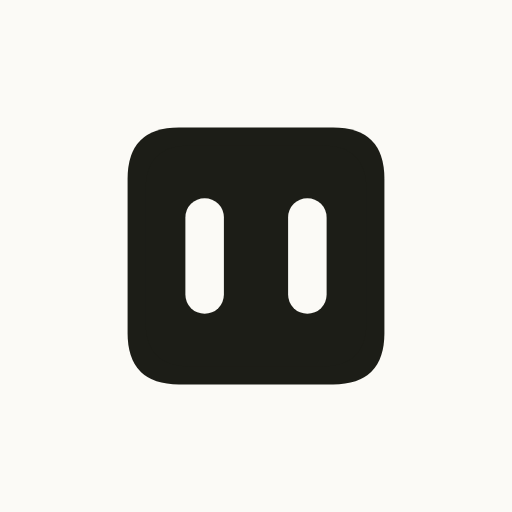
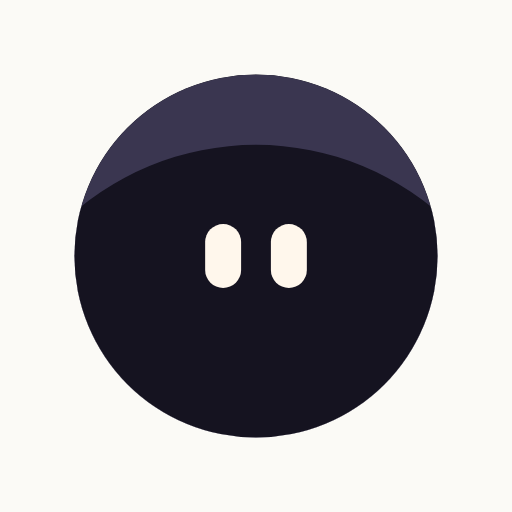
.407 the mark is the sphere from the reference, measured rather than eyeballed
Every number is sampled off the screenshot and then re-measured off my own render
with the same probe, so the two columns are comparable:

                        reference    mine
  eye width / diameter      0.099    0.098
  eye height / diameter     0.176    0.169
  gap / diameter            0.082    0.082
  body                    #151320  #151320
  crescent                #3a3650  #3a3650
  eyes                    #fff7ec  #fff7ec
  crescent disc            1.534R   1.511R
  crescent disc centre     0.922R   0.906R below

The crescent is not a gradient and not a tint: it is the sphere with a large dark
disc laid over its lower half, which leaves a lit arc whose inner edge sags in
the middle. Fitted by least squares over 43 points along that edge, worst
residual 0.016R — a pixel and a half on the 182px original. A first estimate off
three points gave 2.64R and 2.06R and was badly conditioned; those are not the
numbers. The 1.5% left between the two columns is the measurement's own bias,
not a mismatch — it is 0.14px at the size the mark ships at.

Drawn as an even-odd path over the two circles, clipped to the sphere, so the
crescent is one filled shape rather than a colour painted over another. The chip
beside the score cannot use a literal there — its body is the day's answer, an
animating custom property — so it gets white at 0.22 instead, which lands as the
same top-lit sphere on any of the five faces.
[…]

Changed region(s): [[0.125, 0.125, 0.875, 0.875], [0.3438, 0.375, 0.6562, 0.625]]

diff --git a/index.html b/index.html
@@ -26,8 +26,8 @@
 <!-- The mark itself: a full-bleed lime field with the two eyes on it. Full bleed
      because iOS rounds the corners of a home-screen icon for you, and rounding them
      here as well would inset the plate inside its own rounding. -->
[4 lines of base64/hex data omitted]
 <!-- THE FONT DOES NOT HOLD THE PAGE UP ANY MORE.
      It was pulled by @import from inside the stylesheet, which is the slowest way there is
      to load one: discovered only after the CSS has parsed, render-blocking once it is, and
@@ -194,14 +194,12 @@
        than needing a bone variant — which is also why these are literals rather than var()s
        off the theme. They are what the flying pair wears in transit and what the icon is
        built from, so the mark is the same two colours everywhere it appears. */
-    --mark-shell:#1c1d17;
-    --mark-ink:#fbfaf6;
-    /* The rgb the turned faces are mixed FROM, at an alpha. It belongs to the mark rather than
-       to the theme: which way the faces should step depends on how light the BODY is, not on
-       which ground the page is wearing. Light body, mix from the dark; dark body, mix from the
-       light. The chip beside the score keeps taking --ground-rgb, because its body is the
-       day's answer and that genuinely does move with the ground. */
-    --mark-tone:251,250,246;
+    --mark-shell:#151320;
+    --mark-ink:#fff7ec;
+    /* The lit crescent along the top. Its own colour rather than a tint of the body, because
+       it is not one: sampled off the reference it is #3a3650 against a #151320 body, which no
+       single alpha of the cream reproduces — the red needs 0.16 and the blue 0.24. */
+    --mark-lit:#3a3650;
     /* Sand. The same value --face-3 carries as a rating, named separately because this is not
        one: a token used for its hue has no business reading as "ok" wherever it turns up. If
        the rating scale is ever recut, that one moves and this does not. */
@@ -5913,35 +5911,48 @@ function moveEyes(dest, from, snap){
 let eyeSettleTimer = null;
 /* ---------- THE MARK AS A SOLID ----------
 
-   The mark in the wordmark is a cube now rather than a flat plate. Face on it is exactly the
-   square it has always been — same 40px box, same corner radius, same two capsules — and the
-   solid only appears because it turns. Orthographic, so nothing is faked: at a corner the
-   silhouette is a true hexagon, and everything between is a five- or six-sided outline.
+   The mark in the wordmark is a SPHERE: a flat dark circle with a lit crescent along its top
+   and two capsule eyes knocked out of it. It was a cube for a long time, and the trade that
+   swapped it is worth writing down rather than rediscovering.
 
-   SHELL AND CORE. Two cubes: an outer one filled in the page's ink, and a second at 86% of it
-   inside, whose SIDE faces step to a grey. The core's front and top match the shell, which is
-   what keeps the resting square untouched — there is no rim and no panel until it moves.
-   The step is rgba over the shell rather than a picked grey, so it inverts with the ground on
-   its own: --ground-rgb is the dark on the black theme and the cream on bone, so the sides go
-   darker on one and lighter on the other without a second set of values.
+   A cube tells you it has turned by changing OUTLINE — exactly a square face on, exactly a
+   regular hexagon at a corner, a five- or six-sided shape in between — so the silhouette
+   carries the rotation on its own and the shading is optional. A sphere's outline is a circle
+   at every angle. Turn it and nothing about the body moves. So the eight moves below still
+   run, but only the EYES report them: they swing across the face, foreshorten, and go round
+   the back. The roll and the flip, which used to be the two you noticed, are now a pair of
+   capsules sliding off one edge and back on the other with a still circle behind them.
 
    WHY IT CAN LIVE HERE AT ALL. The trip between the wordmark and the score is a CUT, not a
    morph — moveEyes hides the mark in one place and shows it in the other on the same frame.
    So this only has to be right in the wordmark. Down on the score the mark is bare eyes with
    no plate, which is untouched, and so are the five faces, the docked chip and the trace.
 
-   The outline is a path with real rounded corners rather than a fat stroke. Stroking is the
-   cheap way to round a polygon and it cannot be clipped to — clipPath uses fill geometry and
-   throws the stroke away — which is exactly what the core has to be clipped to. */
-const MC_R = 0.20, MC_INSET = 0.86, MC_RAD = Math.PI / 180;
-/* How far each EDGE bows outward, as a fraction of that edge's own length. 0 is a straight
-   edge — the honest orthographic silhouette, where the corners are the only curvature in the
-   drawing. Above 0 the sides swell, which trades the cube's geometry for something softer. */
-const MC_BOW = 0;
-/* The core's half-height, separately from its 0.86 width. Equal to MC_INSET the core is a
-   smaller cube and its outline is the silhouette scaled; below it, the shaded faces sit
-   further in from the top and bottom than they do from the sides. */
-const MC_INSET_Y = 0.86;
+   The mc prefix and the ...Cube names are the cube's, kept on purpose: renaming them would
+   have put twenty-five call sites, a CSS class and two DOM ids into a diff that is otherwise
+   entirely about what gets drawn. They mean the mark's solid, whatever shape it is. */
+
+/* THE MARK IS A SPHERE, AND EVERY NUMBER IN IT WAS MEASURED OFF THE ONE IT COPIES.
+   Nothing here is a taste call. The reference was sampled at 182px across and each value is
+   a fraction of that, so the mark is the same drawing at any size.
+
+   THE LIT CRESCENT is not a gradient and not a tint of the body — it is the sphere with a
+   large dark disc laid over its lower half, which leaves a lit arc along the top whose inner
+   edge sags in the middle. Fitted by least squares over 43 points sampled along that edge in
+   the reference: a disc of 1.534 sphere-radii, centred 0.922 radii below the middle, worst
+   residual 0.016R — a pixel and a half on a 182px original. A first estimate off three points
+   gave 2.64 and 2.06 and was badly conditioned; these are the fitted ones.
+
+   Drawn as an even-odd path of the two circles, clipped to the sphere, so the crescent is one
+   filled shape rather than a colour painted over another colour. That matters because the
+   chip's body is an animating custom property: paint the crescent as an opaque colour and it
+   would have to be kept in step with a value nothing here can read. */
+const MC_LIT_R = 1.534, MC_LIT_DY = 0.922, MC_RAD = Math.PI / 180;
+/* The eyes, as fractions of the sphere's DIAMETER. Measured on the reference at 18px wide and
+   32 tall with 15 between them, on a 182px sphere, centred on both axes: 0.099, 0.176, 0.082.
+   They are much smaller and much closer together than the pair the cube wore — that pair was
+   0.15 wide, 0.45 tall and 0.25 apart. */
+const MC_EYE_W = 0.099, MC_EYE_H = 0.176, MC_EYE_GAP = 0.082;
 const mcState = { rx:0, ry:0, rz:0, gx:0, gy:0, aimGx:0, aimGy:0, gazeAt:0,
                   blink:1, blinkAt:0, raf:null, born:0, step:null, queue:[], nextAt:0 };
 function mcProject(rx, ry, rz){
@@ -5952,129 +5963,13 @@ function mcProject(rx, ry, rz){
                       const Y = cx*y - sx*Z; Z = sx*y + cx*Z;
                       return [cz*X - sz*Y, sz*X + cz*Y, Z]; };
 }
-function mcHull(pts){
-  const p = pts.slice().sort((a,b)=> a[0]-b[0] || a[1]-b[1]);
-  const cr = (o,a,b)=> (a[0]-o[0])*(b[1]-o[1]) - (a[1]-o[1])*(b[0]-o[0]);
-  const lo = [], up = [];
-  for(const q of p){ while(lo.length>=2 && cr(lo[lo.length-2],lo[lo.length-1],q)<=0) lo.pop(); lo.push(q); }
-  for(const q of p.slice().reverse()){ while(up.length>=2 && cr(up[up.length-2],up[up.length-1],q)<=0) up.pop(); up.push(q); }
-  lo.pop(); up.pop(); return lo.concat(up);
+/* A circle as path data, so two of them can share one even-odd path. */
+function mcCirc(cx, cy, r){
+  return `M${(cx-r).toFixed(2)},${cy.toFixed(2)}`
+       + `a${r.toFixed(2)},${r.toFixed(2)} 0 1 0 ${(2*r).toFixed(2)},0`
+       + `a${r.toFixed(2)},${r.toFixed(2)} 0 1 0 ${(-2*r).toFixed(2)},0Z`;
 }
-function mcRounded(pts, r){
-  /* Deduped first, and the M is emitted on the first corner that SURVIVES rather than on
-     index zero. A cube projects eight vertices onto as few as four distinct points — face on,
-     every corner is two vertices stacked — so the hull can hand this a repeat. When the
-     repeat landed at index zero the old loop skipped it, never wrote an M, and SVG started
-     the subpath at 0,0: a line from the top-left corner across the mark, on most frames. */
-  const uniq = [];
-  for(const p of pts){ const l = uniq[uniq.length-1];
-    if(!l || Math.hypot(p[0]-l[0], p[1]-l[1]) > 0.01) uniq.push(p); }
-  while(uniq.length > 1 && Math.hypot(uniq[0][0]-uniq[uniq.length-1][0], uniq[0][1]-uniq[uniq.length-1][1]) <= 0.01) uniq.pop();
-  pts = uniq;
-  const n = pts.length;
-  if(n < 3) return '';
-  /* Each corner is a Q through the corner itself, from a to b. Collected rather than emitted
-     inline, because a bowed EDGE needs the previous corner's b as well as this one's a, and
-     the closing edge needs the last b and the first a. */
-  const arc = [];
-  for(let i = 0; i < n; i++){
-    const c = pts[i], p = pts[(i-1+n)%n], q = pts[(i+1)%n];
-    const d1 = Math.hypot(p[0]-c[0], p[1]-c[1]), d2 = Math.hypot(q[0]-c[0], q[1]-c[1]);
-    if(!d1 || !d2) continue;
-    const t1 = Math.min(r, d1/2), t2 = Math.min(r, d2/2);
-    arc.push({ a:[c[0] + (p[0]-c[0])/d1*t1, c[1] + (p[1]-c[1])/d1*t1],
-               c, b:[c[0] + (q[0]-c[0])/d2*t2, c[1] + (q[1]-c[1])/d2*t2] });
-  }
-  const m = arc.length;
-  if(!m) return '';
-  const f = v => v[0].toFixed(2) + ',' + v[1].toFixed(2);
-  /* Only used to decide which way is OUT, so it does not have to be the true centroid: any
-     interior point separates the two perpendiculars, and a convex hull's mean is interior. */
-  let cx = 0, cy = 0;
-  for(const s2 of arc){ cx += s2.c[0]; cy += s2.c[1]; }
-  cx /= m; cy /= m;
-  const edge = (from, to)=>{
-    if(!MC_BOW) return 'L' + f(to);
-    const mx = (from[0]+to[0])/2, my = (from[1]+to[1])/2;
-    let nx = -(to[1]-from[1]), ny = to[0]-from[0];
-    const L = Math.hypot(nx, ny) || 1;
-    nx /= L; ny /= L;
-    if((mx-cx)*nx + (my-cy)*ny < 0){ nx = -nx; ny = -ny; }
-    /* A quadratic passes half way to its control point at the midpoint, so the control goes
-       twice the bow out and the curve rises by exactly MC_BOW of the edge's length. */
-    const k = MC_BOW * L * 2;
-    return 'Q' + (mx+nx*k).toFixed(2) + ',' + (my+ny*k).toFixed(2) + ' ' + f(to);
-  };
-  let d = 'M' + f(arc[0].a) + ' Q' + f(arc[0].c) + ' ' + f(arc[0].b);
-  for(let i = 1; i < m; i++) d += ' ' + edge(arc[i-1].b, arc[i].a) + ' Q' + f(arc[i].c) + ' ' + f(arc[i].b);
-  return d + ' ' + edge(arc[m-1].b, arc[0].a) + ' Z';
-}
-/* THE SOLID DOES NOT RESIZE WHEN IT TURNS, AND THAT IS THE WHOLE POINT.
-   A cube is root-two wider at a corner than face on and root-three across its body diagonal,
-   and this one sits with the wordmark's second line directly to its left. Two versions tried
-   to buy that width back. The first capped the rotation at twenty degrees, which solved a
-   collision by taking away the motion. The second scaled every orientation to fill the same
-   box, which was worse in a way that took a while to name: holding the box constant means the
-   mark SHRINKS the moment it moves. Eight degrees took a fifth off its height, a
-   twenty-two degree glance — the commonest thing it does — took nearly a quarter, and it
-   sprang back to full size at ninety. Measured, a 40px mark went 40x40, 40x35.4, 40x33.1,
-   40x31.8. That is not a solid turning. It is a shape being squashed and let go, which is
-   exactly what it looked like.
 
-   So nothing is scaled. The silhouette grows and shrinks as a real one does, the eyes keep
-   their size, and every orientation is the same object seen from a different angle. It costs
-   the mark up to 14px of overhang each way at the extremes, over the wordmark on one side and
-   into open header on the other — and the mark has always painted OVER the wordmark rather
-   than beside it, so the overhang reads as a solid in front of the type, which is what it is.
-
-   Nothing replaces this because nothing needs to: the widest a cube can ever project is
-   root-three, so any allowance big enough to leave the rotation alone is an allowance that
-   never fires. A clamp that never clamps is not a safeguard, it is eight projections a frame
-   and a line of code that lies about what it does. */
-/* hy is the half-size in the solid's OWN y, and it defaults to h, which makes this a cube.
-   The core passes a different one so its height can be set independently of its width — the
-   only place in the mark where the two are allowed to disagree. */
-function mcCubePath(P, h, c, r, hy){
-  const g = hy === undefined ? h : hy;
-  const V = [];
-  for(const x of [-h,h]) for(const y of [-g,g]) for(const z of [-h,h]){
-    const v = P([x,y,z]); V.push([c + v[0], c + v[1]]);
-  }
-  return mcRounded(mcHull(V), r);
-}
-/* Fixed in view space, so it does not turn with the solid. Upper left and slightly in front.
-   MC_LIT is what a face pointing straight at the viewer scores, and dividing by it is what
-   makes that face come out at zero — the resting square has no tone on it at all. */
-const MC_LIGHT = (()=>{ const v = [-0.30, -0.45, 0.84], m = Math.hypot(v[0], v[1], v[2]);
-                        return v.map(x=> x/m); })();
-const MC_LIT = MC_LIGHT[2];
-function mcShade(n){
-  const lam = n[0]*MC_LIGHT[0] + n[1]*MC_LIGHT[1] + n[2]*MC_LIGHT[2];
-  return Math.max(0, Math.min(1, 1 - lam / MC_LIT));
-}
-const MC_FACES = [
-  { n:[0,0,1],  q:h=> [[-h,-h,h],[h,-h,h],[h,h,h],[-h,h,h]] },
-  { n:[0,0,-1], q:h=> [[-h,-h,-h],[h,-h,-h],[h,h,-h],[-h,h,-h]] },
-  { n:[1,0,0],  q:h=> [[h,-h,-h],[h,-h,h],[h,h,h],[h,h,-h]] },
-  { n:[-1,0,0], q:h=> [[-h,-h,-h],[-h,-h,h],[-h,h,h],[-h,h,-h]] },
-  { n:[0,-1,0], q:h=> [[-h,-h,-h],[h,-h,-h],[h,-h,h],[-h,-h,h]] },
-  { n:[0,1,0],  q:h=> [[-h,h,-h],[h,h,-h],[h,h,h],[-h,h,h]] },
-];
-/* The twelve edges, each with the two faces that meet along it. An edge whose BOTH faces are
-   turned toward you is an interior edge — the fold you see running across a corner-on cube —
-   and an edge with one face showing is on the silhouette, where the outline already is. That
-   distinction is the whole trick behind the outlined mark: face on, one face shows, no folds,
-   and the drawing degenerates to a plain square, which is exactly what the flat chip was. */
-const MC_EDGES = (()=>{
-  const key = v => v.join(',');
-  const out = [];
-  for(let i = 0; i < MC_FACES.length; i++) for(let j = i + 1; j < MC_FACES.length; j++){
-    const a = MC_FACES[i].q(1).map(key), b = new Set(MC_FACES[j].q(1).map(key));
-    const shared = a.filter(k => b.has(k));
-    if(shared.length === 2) out.push({ f:[i,j], e:shared.map(k => k.split(',').map(Number)) });
-  }
-  return out;
-})();
 /* TWO HOMES, ONE MARK.
    The wordmark and the chip beside the score are never both on screen — moveEyes hides one
    as it shows the other — so these are not two cubes. They are one cube with two mounts,
@@ -6099,113 +5994,86 @@ function mcMounts(){
        mounts, the flight and the icon. */
     out.push({ host:header, id:'mcClipH',
                svg:document.getElementById('headerMarkCube'),
-               shell:'var(--mark-shell)', ink:'var(--mark-ink)', tone:'var(--mark-tone)' });
+               shell:'var(--mark-shell)', ink:'var(--mark-ink)', lit:'var(--mark-lit)' });
   const dock = document.getElementById('todayFaceDock');
   const dsvg = dock && dock.style.display !== 'none' && document.getElementById('dockMarkCube');
   if(dsvg) out.push(dock.classList.contains('asking')
     ? { host:dock, id:'mcClipD', svg:dsvg, line:'rgba(var(--ink-rgb),0.55)',
         ink:'rgba(var(--ink-rgb),0.55)' }
+    /* The chip's body is the day's answer, so its crescent cannot be a colour of its own —
+       it is white at an alpha, which lands as the same top-lit sphere on any of the five. */
     : { host:dock, id:'mcClipD', svg:dsvg, shell:'var(--mc-shell)', ink:'currentColor',
-        tone:'var(--ground-rgb)' });
+        lit:'rgba(255,255,255,0.22)' });
   return out;
 }
 function drawMarkCube(){ for(const m of mcMounts()) mcPaint(m); }
 function mcPaint(m){
   const svg = m.svg, host = m.host;
   if(!svg || !host) return;
-  /* --mc-scale shrinks the DRAWING inside a box that does not move. The box keeps its width,
-     which is what the header collapse measures its left from and what a finger has to hit,
-     and it is what lets the chip beside the score draw at the wordmark's size out of a box
-     sized to the digits. A cube smaller in the same place, with no position to correct. */
+  /* --mc-scale multiplies the DRAWING inside a box that does not move. The box keeps its
+     width, which is what the header collapse measures its left from and what a finger has to
+     hit, and it is what lets the chip beside the score draw at the wordmark's size out of a
+     box sized to the digits. */
   const cs = getComputedStyle(host);
   const k = parseFloat(cs.getPropertyValue('--mc-scale'));
   const s = (parseFloat(cs.width) || 40) * (k > 0 ? k : 1);
   if(!(s > 0)) return;
-  const B = Math.round(s * 1.08), c = B/2, h = s/2, R = MC_R * s;
+  /* The sphere's DIAMETER is the drawing size, so it keeps the footprint the cube's face-on
+     square had and nothing that measures the mark has to change. */
+  const B = Math.round(s * 1.08), c = B/2, h = s/2;
   svg.setAttribute('width', B); svg.setAttribute('height', B);
   svg.setAttribute('viewBox', `0 0 ${B} ${B}`);
   const P = mcProject(mcState.rx, mcState.ry, mcState.rz);
-  const hi = h * MC_INSET, di = mcCubePath(P, hi, c, R * MC_INSET, h * MC_INSET_Y);
   let out = '';
   if(m.line){
     /* THE OUTLINE IS THE SAME SOLID, UNPAINTED.
-       Same silhouette path the filled one uses, so asking and answered are the same drawing
-       at the same size and only the treatment differs. The folds are added on top: an edge
-       with both its faces showing. Face on there are none, and this comes out as the square
-       ring the flat chip drew. */
-    const t = Math.max(1, s * 0.068), ds = mcCubePath(P, h, c, R);
-    out += `<path d="${ds}" fill="none" style="stroke:${m.line}"`
-         + ` stroke-width="${t.toFixed(2)}" stroke-linejoin="round"/>`;
-    /* The folds run the FULL width of the solid, not the inset the tone is drawn on. Inset,
-       each one stopped a seventh of the mark short at both ends and read as a scratch floating
-       inside the outline rather than as the corner it is. Full length they would instead poke
-       out through the rounded corners, which are cut well back at this size, so they are
-       clipped to the silhouette — which is the same path the outline is stroked from, so they
-       land exactly on it. */
-    let fold = '';
-    for(const E of MC_EDGES){
-      if(P(MC_FACES[E.f[0]].n)[2] <= 0.02 || P(MC_FACES[E.f[1]].n)[2] <= 0.02) continue;
-      const [a, b] = E.e.map(v => P(v.map(x => x * h)));
-      fold += `<line x1="${(c+a[0]).toFixed(2)}" y1="${(c+a[1]).toFixed(2)}"`
-            + ` x2="${(c+b[0]).toFixed(2)}" y2="${(c+b[1]).toFixed(2)}"`
-            + ` style="stroke:${m.line}" stroke-width="${t.toFixed(2)}"/>`;
-    }
-    if(fold) out += `<clipPath id="${m.id}"><path d="${ds}"/></clipPath>`
-                  + `<g clip-path="url(#${m.id})">${fold}</g>`;
+       Same circle at the same size, stroked inside the radius so the ring's outer edge lands
+       exactly where the filled one paints to. There are no folds to add any more: a sphere
+       has no edges, which is the whole of what changed. */
+    const t = Math.max(1, s * 0.068), r = Math.max(0.5, h - t/2);
+    out += `<circle cx="${c}" cy="${c}" r="${r.toFixed(2)}" fill="none"`
+         + ` style="stroke:${m.line}" stroke-width="${t.toFixed(2)}"/>`;
   } else {
-    out += `<path d="${mcCubePath(P, h, c, R)}" style="fill:${m.shell}"/>`
-            + `<path d="${di}" style="fill:${m.shell}"/>`
-            + `<clipPath id="${m.id}"><path d="${di}"/></clipPath><g clip-path="url(#${m.id})">`;
-    /* THE TONE BELONGS TO THE LIGHT, NOT TO THE FACE.
-       Both side faces used to be painted the same grey, so which one you saw depended on which
-       way it had turned — and the tone jumped from one side of the mark to the other every time
-       it crossed 90 degrees. That is not a shadow, it is a paint job, and it read as the mark
-       flipping rather than turning.
-
-       Each face takes its value from where it is POINTING instead: how square-on it is to a
-       fixed light, which stays where it is while the solid moves. Nothing jumps, because the
-       value is continuous in the rotation — as one face turns away and darkens, the next turns
-       toward you and lightens, and they cross over smoothly.
-
-       Normalised so a face pointing straight at you is exactly zero: that is what keeps the
-       resting square pure, and it is why a side turned fully face on is white rather than grey.
-       The light is off to the upper left rather than down the view axis, because a light ON the
-       axis gives all three faces at a corner the same value and the cube collapses back into a
-       flat hexagon — the one angle where the tone earns its place. */
-    for(const F of MC_FACES){
-      const n = P(F.n); if(n[2] <= 0.001) continue;
-      const a = 0.42 * mcShade(n);
-      if(a < 0.004) continue;
-      /* The faces are the core's own corners, so they take its height too — otherwise the
-         tone would be painted on a cube and clipped to a cuboid. */
-      const q = F.q(hi).map(v=> P([v[0], v[1]/MC_INSET*MC_INSET_Y, v[2]]));
-      out += `<polygon points="${q.map(([x,y])=>`${(c+x).toFixed(2)},${(c+y).toFixed(2)}`).join(' ')}"`
-           + ` style="fill:rgba(${m.tone},${a.toFixed(3)})"/>`;
+    out += `<circle cx="${c}" cy="${c}" r="${h.toFixed(2)}" style="fill:${m.shell}"/>`;
+    /* The crescent, as the sphere MINUS the disc below it. Even-odd over the two circles and
+       clipped to the sphere, so what is left is exactly the lit arc — one filled shape, in one
+       colour, that never has to know what the body underneath it is. */
+    if(m.lit){
+      out += `<clipPath id="${m.id}"><circle cx="${c}" cy="${c}" r="${h.toFixed(2)}"/></clipPath>`
+           + `<path clip-path="url(#${m.id})" fill-rule="evenodd" style="fill:${m.lit}" d="`
+           + mcCirc(c, c, h) + mcCirc(c, c + h*MC_LIT_DY, h*MC_LIT_R) + `"/>`;
     }
-    out += `</g>`;
   }
   /* Eyes on the front AND the back, so a half turn lands on a face rather than on nothing.
-     Four of the six sides are still blank, which is the point — turned away it has nothing
-     to say. The gaze rides in the face's own coordinates, so it foreshortens with everything
-     else instead of sliding about on top. */
-  const ew = 0.15*s, gap = 0.25*s, z = h + 0.4;
+     They ride the projection rather than sitting still: at rest that puts them exactly where
+     the reference has them, centred on both axes, and turning is the only thing the mark has
+     left to say anything with now that the silhouette is a circle at every angle.
+
+     Clipped to the sphere, which the cube never needed — a cube's silhouette grows as it
+     turns and the eyes stayed inside it, where a circle's does not, so at a steep angle the
+     pair would otherwise slide off the edge. */
+  const ew = MC_EYE_W*s, gap = MC_EYE_GAP*s, z = h + 0.4;
+  let eyes = '';
   for(const face of [0, 180]){
     const Q = mcProject(0, face, 0), n = P(Q([0,0,1]));
     if(n[2] <= 0.02) continue;
-    const eh = 0.45*s * mcState.blink;
+    const eh = MC_EYE_H*s * mcState.blink;
     const ax = P(Q([1,0,0])), w = Math.max(0.6, ew * Math.hypot(ax[0], ax[1]));
     const half = Math.max(0, eh/2 - ew/2);
     const gx = mcState.gx * ew * 0.85, gy = mcState.gy * s * 0.06;
     for(const sg of [-1,1]){
       const x = sg * (gap/2 + ew/2) + gx;
       const a = P(Q([x, -half + gy, z])), b = P(Q([x, half + gy, z]));
-      out += `<line x1="${(c+a[0]).toFixed(2)}" y1="${(c+a[1]).toFixed(2)}"`
+      eyes += `<line x1="${(c+a[0]).toFixed(2)}" y1="${(c+a[1]).toFixed(2)}"`
            + ` x2="${(c+b[0]).toFixed(2)}" y2="${(c+b[1]).toFixed(2)}"`
            + ` style="stroke:${m.ink}" stroke-width="${w.toFixed(2)}" stroke-linecap="round"/>`;
     }
   }
+  if(eyes) out += `<clipPath id="${m.id}E"><circle cx="${c}" cy="${c}" r="${h.toFixed(2)}"/></clipPath>`
+                + `<g clip-path="url(#${m.id}E)">${eyes}</g>`;
   svg.innerHTML = out;
 }
+
 /* WHAT IT DOES WHEN NOBODY ASKED.
    A short repertoire rather than one loop, because a mark that always does the same thing
    stops being read after a day. Each is a list of orientations to pass through with a hold
